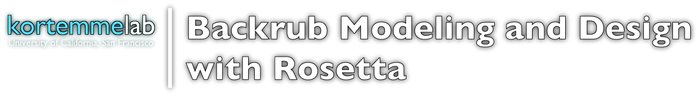
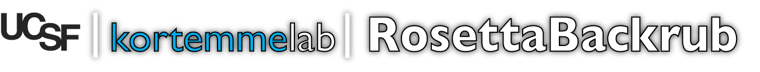
header changes, text changed
git-svn-id: file:///kortemmelab/shared/commonSVN/rosettaweb@48 fc5780ad-6544-46e6-b60b-86c75d3988a5

diff --git a/backrub/jscripts.js b/backrub/jscripts.js
@@ -8,7 +8,7 @@ function startup(query) {
           Nifty("ul#about li","big fixed-height");
           Nifty("div#box","big transparent fixed-height");
       }
-      if (query == "index" || query = 'login') {
+      if (query == "index" || query == "login") {
           Nifty("div#login_box","big transparent fixed-height");
       }
       //updateCellSize2();

diff --git a/backrub/frontend/rosettahtml.py b/backrub/frontend/rosettahtml.py
@@ -33,27 +33,31 @@ class RosettaHTML:
                         #'Interface Alanine Scanning' : 'http://%s/alascan/' % self.server_url,
                         #'more server soon' : 'http://kortemmelab.ucsf.edu/' }
                         # THIS gets to complicated
+        tooltip_parameter = "offsetx=[-90] offsety=[20] singleclickstop=[on] cssbody=[tooltip] cssheader=[tth] delay=[250]"
         self.tooltips = { 
-                        "tt_JobName":       "header=[Name for your job] body=[Enter a name that helps you identifying your job later.] offsetx=[-90] offsety=[20] singleclickstop=[on] cssbody=[tooltip] cssheader=[tth] delay=[500]",
-                        "tt_Structure":     "header=[Structure File] body=[Enter the path to a protein structure file in PDB format. <br>] offsetx=[-90] offsety=[20] singleclickstop=[on] cssbody=[tooltip] cssheader=[tth] delay=[500]",
-                        "tt_StructureURL":  "header=[URL to Structure File] body=[Enter the path to a protein structure file in PDB format. <br>] offsetx=[-90] offsety=[20] singleclickstop=[on] cssbody=[tooltip] cssheader=[tth] delay=[500]",
-                        "tt_RVersion":      "header=[Rosetta Version] body=[Choose the version of Rosetta, either Rosetta 2 (\'classic\') or the new Rosetta 3 (\'mini\'). Some applications only work with one version.] offsetx=[-90] offsety=[20] singleclickstop=[on] cssbody=[tooltip] cssheader=[tth] delay=[500]",
-                        "tt_NStruct":       "header=[Number of Structures] body=[Number of generated structures or size of ensemble.] offsetx=[-90] offsety=[20] singleclickstop=[on] cssbody=[tooltip] cssheader=[tth] delay=[500]",
-                        "tt_ROutput":       "header=[Rosetta output] body=[If checked, the raw output of the Rosetta run is stored. Does not apply to all applications.] offsetx=[-90] offsety=[20] singleclickstop=[on] cssbody=[tooltip] cssheader=[tth] delay=[500]",
-                        "tt_SelApp":        "header=[Select Application] body=[Click to choose one of the applications. Each application will give you a short explanation and a set of parameters that can be adjusted.] offsetx=[-90] offsety=[20] singleclickstop=[on] cssbody=[tooltip] cssheader=[tth] delay=[500]",
-                        "tt_ChainId":       "header=[Chain ID] body=[The chain in which the residue is located.] offsetx=[-90] offsety=[20] singleclickstop=[on] cssbody=[tooltip] cssheader=[tth] delay=[500]",
-                        "tt_ResId":         "header=[Residue ID] body=[The position (residue ID according to the PDB file) that is going to be mutated.] offsetx=[-90] offsety=[20] singleclickstop=[on] cssbody=[tooltip] cssheader=[tth] delay=[500]",
-                        "tt_NewAA":         "header=[New Amino Acid] body=[The Amino Acid to which the position is going to be mutated.] offsetx=[-90] offsety=[20] singleclickstop=[on] cssbody=[tooltip] cssheader=[tth] delay=[500]",
-                        "tt_Radius":        "header=[Radius] body=[This radius determines the area around the mutation that is subject to backrub. For detailed information see the referenced paper. ] offsetx=[-90] offsety=[20] singleclickstop=[on] cssbody=[tooltip] cssheader=[tth] delay=[500]",
-                        "tt_Temp":          "header=[Temperature] body=[at which backrub is carried out.] offsetx=[-90] offsety=[20] singleclickstop=[on] cssbody=[tooltip] cssheader=[tth] delay=[500]",
-                        "tt_NSeq":          "header=[Number of Sequences] body=[The number of designed sequences for each ensemble structure.] offsetx=[-90] offsety=[20] singleclickstop=[on] cssbody=[tooltip] cssheader=[tth] delay=[500]",
-                        "tt_SegLength":     "header=[Maximal segment length for backrub] body=[Limit the length of the segment to which the bachrub move is applied to.] offsetx=[-90] offsety=[20] singleclickstop=[on] cssbody=[tooltip] cssheader=[tth] delay=[500]",
-                        "tt_error":         "header=[Rosetta Error</b></font><br>Rosetta (classic and mini) fail for some PDB files that have inconsistent residue numbering or miss residues. If an error occures for your structure please check the correctness of the PDB file.] offsetx=[-90] offsety=[20] singleclickstop=[on] cssbody=[tooltip] cssheader=[tth] delay=[500]",
-                        "tt_seqtol_chains": "header=[Chain] body=[The two chains in the PDB file that form an interface. Chain 2 will be mutated to find an energetically more stable sequence.] offsetx=[-90] offsety=[20] singleclickstop=[on] cssbody=[tooltip] cssheader=[tth] delay=[500]",
-                        "tt_seqtol_list":   "header=[List] body=[List of residue-IDs of <b>Chain 2</b> that are subject to mutations. Enter residue-IDs seperated by a space.] offsetx=[-90] offsety=[20] singleclickstop=[on] cssbody=[tooltip] cssheader=[tth] delay=[500]",
-                        "tt_seqtol_radius": "header=[Radius] body=[Defines the size of the interface. A residue is considered to be part of the interface if at least one of its atoms is within a sphere of radius r from any atom of the other chain.] offsetx=[-90] offsety=[20] singleclickstop=[on] cssbody=[tooltip] cssheader=[tth] delay=[500]",
-                        "tt_seqtol_weights":"header=[Weights] body=[Describes how much the algorithm emphazises the energetic terms of this entity. The default of 1,1,2 multiplies the energetic terms of residues of the interface by 2, while the energies of partner 1 and partner 2 are weighted with 1, respectively.] offsetx=[-90] offsety=[20] singleclickstop=[on] cssbody=[tooltip] cssheader=[tth] delay=[500]",
-                        "tt_seqtol_design": "header=[Residues for design] body=[Rosetta is going to substitute these residues in order to find energetically stable sequences.] offsetx=[-90] offsety=[20] singleclickstop=[on] cssbody=[tooltip] cssheader=[tth] delay=[500]",
+                        "tt_empty":         "header=[] body=[] %s" % tooltip_parameter,
+                        "tt_general":       "header=[General Settings] body=[These settings are common for all applications.] %s" % tooltip_parameter,
+                        "tt_specific":      "header=[Application Specific Settings] body=[These settings are dependent on the applications. If you are not sure use the standard values.] %s" % tooltip_parameter,
+                        "tt_JobName":       "header=[Name for your job] body=[Enter a name that helps you identifying your job later.] %s" % tooltip_parameter,
+                        "tt_Structure":     "header=[Structure File] body=[Enter the path to a protein structure file in PDB format. For NMR structures only the first model in teh file is considered.] %s" % tooltip_parameter,
+                        "tt_StructureURL":  "header=[URL to Structure File] body=[Enter the path to a protein structure file in PDB format. For NMR structures only the first model in teh file is considered.] %s" % tooltip_parameter,
+                        "tt_RVersion":      "header=[Rosetta Version] body=[Choose the version of Rosetta, either Rosetta 2 (\'classic\') or the new Rosetta 3 (\'mini\'). Some applications only work with one version.] %s" % tooltip_parameter,
+                        "tt_NStruct":       "header=[Number of Structures] body=[Number of generated structures or size of ensemble.] %s" % tooltip_parameter,
+                        "tt_ROutput":       "header=[Rosetta output] body=[If checked, the raw output of the Rosetta run is stored. Does not apply to all applications.] %s" % tooltip_parameter,
+                        "tt_SelApp":        "header=[Select Application] body=[Click to choose one of the applications. Each application will give you a short explanation and a set of parameters that can be adjusted.] %s" % tooltip_parameter,
+                        "tt_ChainId":       "header=[Chain ID] body=[The chain in which the residue is located.] %s" % tooltip_parameter,
+                        "tt_ResId":         "header=[Residue ID] body=[The position (residue ID according to the PDB file) that is going to be mutated.] %s" % tooltip_parameter,
+                        "tt_NewAA":         "header=[New Amino Acid] body=[The Amino Acid to which the position is going to be mutated.] %s" % tooltip_parameter,
+                        "tt_Radius":        "header=[Radius] body=[This radius determines the area around the mutation that is subject to backrub. For detailed information see the referenced paper.] %s" % tooltip_parameter,
+                        "tt_Temp":          "header=[Temperature] body=[at which backrub is carried out.] %s" % tooltip_parameter,
+                        "tt_NSeq":          "header=[Number of Sequences] body=[The number of designed sequences for each ensemble structure.] %s" % tooltip_parameter,
+                        "tt_SegLength":     "header=[Maximal segment length for backrub] body=[Limit the length of the segment to which the bachrub move is applied to.] %s" % tooltip_parameter,
+                        "tt_error":         "header=[Rosetta Error</b></font><br>Rosetta (classic and mini) fail for some PDB files that have inconsistent residue numbering or miss residues. If an error occures for your structure please check the correctness of the PDB file.] %s" % tooltip_parameter,
+                        "tt_seqtol_partner":"header=[Partner] body=[The two chains in the PDB file that form an interface.] %s" % tooltip_parameter,
+                        "tt_seqtol_list":   "header=[List] body=[List of residue-IDs of <b>Chain 2</b> that are subject to mutations. Enter residue-IDs seperated by a space.] %s" % tooltip_parameter,
+                        "tt_seqtol_radius": "header=[Radius] body=[Defines the size of the interface. A residue is considered to be part of the interface if at least one of its atoms is within a sphere of radius r from any atom of the other chain.] %s" % tooltip_parameter,
+                        "tt_seqtol_weights":"header=[Weights] body=[Describes how much the algorithm emphazises the energetic terms of this entity. The default of 1,1,2 emphasizes the energetic contributions of the interface. The interface is weighted with 2, while the energies of partner 1 and partner 2 are weighted with 1, respectively.] %s" % tooltip_parameter,
+                        "tt_seqtol_design": "header=[Residues for design] body=[Rosetta is going to substitute these residues in order to find energetically stable sequences.] %s" % tooltip_parameter,
                         }
         
         
@@ -183,7 +187,7 @@ class RosettaHTML:
     def _showLegalInfo(self):
         html = """<td style="border:1px solid black; padding:10px" bgcolor="#FFFFE0">
                     <p style="text-align:left; font-size: 10pt" >
-                      For questions, please contact <A href="mailto:%s" style="font-size: 10pt">%s</A>
+                      For questions, please read our <A href="../wiki/">documentation</A> or contact <A href="mailto:%s" style="font-size: 10pt">%s</A>
                     </p>
                   </td>""" % ( self.contact_email, self.contact_name )
         return html
@@ -201,21 +205,18 @@ class RosettaHTML:
         html = """<td align=center style="border-top:1px solid gray; ">
                  <table width="720" style="border-width:0pt">
                     <tr>
-                    <td align="center"><img src="../images/ucsf_only_tiny.png" width="65%%" height="65%%" alt="UCSF" border=0></td>
-                    <td align="left" width="520">
-                    "RosettaBackrub" is available for NON-COMMERCIAL USE ONLY at this time.<br>
-                    <font color=#666688><b>[</b></font>
-                    <A href="%s?query=terms_of_service" class="nav">Terms of Service</A>
-                    <font color=#666688><b>]</b></font><br>
-                    <font style="font-size: 9pt">Copyright &copy; 2009 University of California San Francisco, <A href="mailto:kortemme@cgl.ucsf.edu" style="font-size: 9pt">Tanja Kortemme</a>, <A href="mailto:lauck@cgl.ucsf.edu" style="font-size: 9pt">Florian Lauck</A></font>
+                    <td align="left">
+                    "RosettaBackrub" is available for NON-COMMERCIAL USE ONLY at this time. 
+                    [&nbsp;<A class="nav" href="/backrub/wiki/TermsOfService" >Terms of Service</A>&nbsp;]<br>
+                    <font style="font-size: 9pt">Copyright &copy; 2009 Tanja Kortemme, Florian Lauck and the Regents of the University of California San Francisco</font>
                     </td>
                     <td align="center">
                     %s
                     </td>
                     </tr>
-                 </table></td>""" % ( self.script_filename , SSL)
+                 </table></td>""" % (SSL)
         return html
-
+# <td align="center"><img src="../images/ucsf_only_tiny.png" width="65%%" height="65%%" alt="UCSF" border=0></td>
 
 ##############################################
 # The following functions are accessed from  #
@@ -243,8 +244,6 @@ class RosettaHTML:
         html = '''<td align="center">
     <H1 class="title">Submit a new job</H1>
     <br>
-    Please enter the required information and upload a structure. For help move your mouse to the parameter.
-    <br><br>
 <!-- Start Submit Form -->
     <FORM NAME="submitform" method="POST" onsubmit="return ValidateForm();" enctype="multipart/form-data">
 
@@ -311,34 +310,40 @@ class RosettaHTML:
 
           <!-- end pictures -->
           <!-- description -->
-            <p id="text0" style="text-align:justify;"> 
-              Click left to choose one of the applications. Each application will give you a short explanation and a set of parameters that can be adjusted.
+            <p id="text0" style="text-align:justify;">
+              Choose one of the applications on the left. Each application will give you a short explanation and a set of parameters that can be adjusted.<br><br>
+              For a brief explanation hover your mouse over the parameter.
             </p>
           
             <div id="text1" style="display:none; opacity:0.0; text-align:justify;"> 
-                This function utilizes the backrub protocol implemented in ROSETTA.<br>
-                There are two options:
-                <ul style="text-align:left;">
-                    <li>One Mutation: A single residue will be substituted. (see reference below)</li>
-                    <li>Multiple Mutations: Up to 30 residues can be mutated. (not published)</li>
-                    <!-- li>Upload List: Upload a list with single residue mutations.</li -->
-                </ul>
+                This function utilizes the backrub protocol implemented in Rosetta and applies it to the neighborhood 
+                of a mutated residue to account for the conformational changes in this region. 
+                There are two options.
+                <dl style="text-align:left;">
+                    <dt><b>One Mutation</b></dt><dd>A single residue will be substituted and the neigboring residue in a radius of 6&#197; will be repacked. This value was empirically determined (see reference).</dd>
+                    <dt><b>Multiple Mutations</b></dt><dd>Up to 30 residues can be mutated and their neighborhoods repacked. This method has not been benchmarked yet.</dd>
+                    <!-- dt>Upload List</dt><dd>Upload a list with single residue mutations.</dd -->
+                </dl>
             </div>
 
             <div id="text2" style="display:none; opacity:0.0; text-align:justify;"> 
-                This function utilizes backrub and design protocols implemented in ROSETTA.<br>
-                There are two options:
-                <ul style="text-align:left;">
-                    <li>Generate Backrub Ensemble: The backrub protocol is applied to the whole structure without changing any residues.</li>
-                    <li>Backrub Ensemble Design: This method creates an ensemble of structures that model the flexibility in solution. (see reference below)</li>
-                </ul>
+                This function utilizes backrub and design protocols implemented in ROSETTA. 
+                There are two options.
+                <dl style="text-align:left;">
+                    <dt><b>Generate Backrub Ensemble</b></dt><dd>Backrub is applied to the input structure in order to model backbone flexibility.</dd>
+                    <dt><b>Backrub Ensemble Design</b></dt>
+                      <dd>This method first creates an ensemble of structures that resembles the flexibility in solution. 
+                          These ensembles are similar to the ensembles detected by the NMR method.<br> 
+                          In a second step the generated protein structures are used to design an ensemble that has similar properties as the natural occuring protein family.
+                          The output is a sequence profile of this family of structures.</dd>
+                </dl>
             </div>
             
             <div id="text3" style="display:none; opacity:0.0; text-align:justify;"> 
-                This function utilizes backrub and design protocols implemented in ROSETTA.<br>
-                First, the backrub algorithm is applied to the uploaded complex and an ensemble is generated. 
-                Then, the structures of this ensemble are subject to the design protocol. 
-                This generates and scores sequences by utilizing a genetic algorithm.
+                This function utilizes backrub and design protocols implemented in Rosetta.<br><br>
+                First, the backrub algorithm is applied to the uploaded complex in order to generate an ensemble.
+                Then, for each of the resulting structure the given residues are mutated by an genetic algorithm. 
+                All generated sequences are ranked by their score and used to build a sequence profile.
             </div>
           <!-- end description -->
           
@@ -355,17 +360,18 @@ class RosettaHTML:
                 <TD align=left style="padding-left:5pt; padding-top:5pt;"><INPUT TYPE="text" maxlength=40 SIZE=31 NAME="JobName" VALUE="%(jobname)s"></TD>
               </TR>
               <TR>
-                <TD align=right title="%(tt_Structure)s"> Structure </TD>
+                <TD align=right title="%(tt_Structure)s">Upload Structure </TD>
                 <TD align=left style="padding-left:5pt; padding-top:5pt;" > <INPUT TYPE="file" NAME="PDBComplex" size="20"></TD>
               </TR>
+              <TR><TD align="center" colspan="2" style="padding-bottom:0pt; padding-top:0pt;">or</TD></TR>
               <TR>
-                <TD align=right title="%(tt_StructureURL)s"> URL to structure file </TD>
+                <TD align=right title="%(tt_StructureURL)s"> Enter URL to structure file </TD>
                 <TD align=left style="padding-left:5pt; padding-top:5pt;" > <INPUT TYPE="text" NAME="PDBComplexURL" size="31">
               </TD>
               </TR>
               <TR><TD colspan=2><br></TD></TR>
               <TR>
-                <TD align="center" colspan=2 style="border-bottom:1pt dashed black">General Settings</TD>
+                <TD align="center" colspan=2 style="border-bottom:1pt dashed black" title="%(tt_general)s">General Settings</TD>
               </TR>
               <TR>
                 <TD align=right title="%(tt_RVersion)s">Rosetta Version </TD>
@@ -384,13 +390,12 @@ class RosettaHTML:
               </TR -->
               <TR><TD align=left><br></TD></TR>
               <TR>
-                <TD align="center" colspan=2 style="border-bottom:1pt dashed black">Application Specific Settings</TD>
+                <TD align="center" colspan=2 style="border-bottom:1pt dashed black" title="%(tt_specific)s">Application Specific Settings</TD>
               </TR>
             </TABLE>
             
             <!-- Backrub - Point Mutation -->
             <p id="parameter1_1" style="display:none; opacity:0.0; text-align:justify;">
-            Backrub is applied to residues that have at least one atom within a radius of 6.0 &#197; near the mutation. [ <a href="http://www.sciencedirect.com/science/article/B6WK7-4SHVT2K-7/2/7bb4ba6dcb946d7e39662232433bbb09">Smith and Kortemme, 2008</a> ]<br>
                 <table align=center>
                 <tr>
                     <td align="right" title="%(tt_ChainId)s">Chain ID </td><td><input type="text" name="PM_chain"  maxlength=1 SIZE=5 VALUE=""></td>
@@ -410,7 +415,6 @@ class RosettaHTML:
             
             <!-- Backrub - Multiple Point Mutation -->
             <p id="parameter1_2" style="display:none; opacity:0.0; text-align:justify;">
-            Choose up to 30 residues for mutations. Backrub is applied to neighboring residues in a given radius. <br>
                 <table bgcolor="#EEEEEE" align="center">
                 <tr bgcolor="#828282" style="color:white;">
                     <td align="center">#</td>
@@ -463,12 +467,10 @@ class RosettaHTML:
             </p>
             
             <!-- Ensemble - simple -->
-            <p id="parameter2_1" style="display:none; opacity:0.0; text-align:center;"><b>Apply backrub to all residues.</b><br><br>no options
-            </p>
+            <p id="parameter2_1" style="display:none; opacity:0.0; text-align:center;">no options</p>
             
             <!-- Ensemble - design -->
             <p id="parameter2_2" style="display:none; opacity:0.0; text-align:center;">
-                <b>Create a backrub ensemble.</b><br> [ <a href="http://www.pubmedcentral.nih.gov/articlerender.fcgi?artid=2682763">Friedland et al. 2009</a> ]<br><br>
                 <table align="center">
                 <tr>
                     <td title="%(tt_Temp)s">Temperature [kT]</td><td><input type="text" name="ENS_temperature" maxlength=3 SIZE=5 VALUE="0.3"></td>
@@ -486,11 +488,11 @@ class RosettaHTML:
             <p id="parameter3_1" style="display:none; opacity:0.0; text-align:center;">
             <table align="center">
               <tr>
-                  <td align="right" title="%(tt_seqtol_chains)s">Partner 1:</td>
+                  <td align="right" title="%(tt_seqtol_partner)s">Partner 1:</td>
                   <td>Chain <input type="text" name="seqtol_chain1" maxlength=1 SIZE=2 VALUE=""></td>
               </tr>
               <tr>
-                  <td align="right" title="%(tt_seqtol_chains)s">Partner 2:</td>
+                  <td align="right" title="%(tt_seqtol_partner)s">Partner 2:</td>
                   <td>Chain <input type="text" name="seqtol_chain2" maxlength=1 SIZE=2 VALUE="">
                   </td>
               </tr>
@@ -500,11 +502,11 @@ class RosettaHTML:
                   </td>
               </tr -->
               <tr>
-                  <td align="right" title"%(tt_seqtol_radius)s">Repacking of neighboring residues.</td>
+                  <td align="right" title="%(tt_Radius)s">Area for repacking.</td>
                   <td>Radius<input type="text" name="seqtol_radius" maxlength=5 SIZE=4 VALUE="4.0"> &#197;</td>
               </tr>
               <tr>
-                  <td align="right" title"%(tt_seqtol_weights)s">Weight for Partner</td>
+                  <td align="right" title="%(tt_seqtol_weights)s">Weight for Partner</td>
                   <td>
                     <table >
                       <tr >
@@ -745,7 +747,7 @@ class RosettaHTML:
         for line in job_list:
             task = ''
             if line[9] == '0' or line[9] == 'no_mutation':
-                task = "Model Flexibility"
+                task = "Backrub Ensemble"
             elif line[9] == '1' or line[9] == 'point_mutation':
                 task = "Point Mutation"
             elif line[9] == '3' or line[9] == 'multiple_mutation':
@@ -753,9 +755,9 @@ class RosettaHTML:
             elif line[9] == '2' or line[9] == 'upload_mutation':
                 task = "Custom Mutation"
             elif line[9] == '4' or line[9] == 'ensemble':
-                task = "Backrub ensemble"
+                task = "Backrub Ensemble Design"
             elif line[9] == 'sequence_tolerance':
-                task = "Sequence Tolerance"
+                task = "Sequence Plasticity"
           
             html += """<tr align=center bgcolor="#EEEEEE" onmouseover="this.style.background='#447DAE'; this.style.color='#FFFFFF'" onmouseout="this.style.background='#EEEEEE'; this.style.color='#000000'" onclick="window.location.href='%s?query=jobinfo&jobnumber=%s'">""" % ( self.script_filename, line[1] )
             # write ID
@@ -1171,7 +1173,7 @@ class RosettaHTML:
             html += self._showDownloadLinks(status, parameter['KeepOutput'], parameter['cryptID'], parameter['ID'])
             
             if parameter['task'] == '0' or parameter['task'] == 'no_mutation':
-                task = "Model Flexibility"
+                task = "Backrub Ensemble"
                 html += self._showNoMutation( status, parameter['PDBComplexFile'], parameter['EnsembleSize'], parameter['cryptID'] )            
                 
             elif parameter['task'] == '1' or parameter['task'] == 'point_mutation':
@@ -1189,12 +1191,12 @@ class RosettaHTML:
                 html += self._showComplexMutation( status, parameter['cryptID'], parameter['PDBComplexFile'], parameter['EnsembleSize'], parameter['Mutations'])
                 
             elif parameter['task'] == '4' or parameter['task'] == 'ensemble':
-                task = "Backrub ensemble"
+                task = "Backrub Ensemble Design"
                 html += self._showEnsemble( status, parameter['cryptID'], parameter['PDBComplexFile'], parameter['EnsembleSize'], parameter['ENS_temperature'], 
                                             parameter['ENS_num_designs_per_struct'], parameter['ENS_segment_length'] )
                                             
             elif parameter['task'] == 'sequence_tolerance':
-                task = "Sequence Tolerance"
+                task = "Sequence Plasticity Prediciton"
                 seqtol_parameter = pickle.loads(parameter['seqtol_parameter'])
                 html += self._showSequenceTolerance( status, parameter['cryptID'], parameter['PDBComplexFile'], parameter['EnsembleSize'], 
                                                      seqtol_parameter['seqtol_chain1'], seqtol_parameter['seqtol_chain2'], 
@@ -1277,7 +1279,7 @@ class RosettaHTML:
         
         message_html = ''
         if message != '':
-            message_html = '<P style="text-align:center; color:red;">%s</P>' % ( message )
+            message_html = '<tr><td colspan="3" align="right"><P style="text-align:center; color:red;">%s</P></td></tr>' % ( message )
         disabled = ''
         if login_disabled:
             disabled = 'disabled'
@@ -1285,20 +1287,20 @@ class RosettaHTML:
         html = """<td align="center">
                   <H1 class="title">Welcome to RosettaBackrub</A> </H1> 
                     <P>
-                      This is the structure prediction web server of the Kortemme Lab. This server utilizes the backrub method implemented in 
-                      <a href="%s?query=doc#Rosetta">Rosetta</a>
-                      for protein design and applies it to a structure uploaded by the user. For an explanation of how the server works see the
-                      <a href="%s?query=doc#instructions">instructions</a>. 
+                      This is the structure prediction web server of the Kortemme Lab. This server utilizes the backrub method for flexible protein backbone modeling implemented in 
+                      <a href="/backrub/wiki/Rosetta">Rosetta</a>. 
+                      This server allows the user to upload a protein structure and choose an algorithm that is applied to this structure. 
+                      For a tutorial on how to submit a job see the <a href="/backrub/wiki/">documentation</a>. 
                     </P>
 
                   <div id="login_box">
                     <form name="loginform" method="post" action="%s">
                     <P style="text-align:justify;">
-                    %s
                     You are not required to register for this service, but you can choose to do so. 
                     If you want to proceed without registering click on \"Guest access\", otherwise enter your login and password.
                     <A href="%s?query=register">Click here</A>, if you wish to register.</P>
                     <table border=0 cellpadding=5 cellspacing=0>
+                    %s
                     <tr><td valign="middle" align="center" style="color:red;">
                           <input type="button" name="guest_access" value="Guest Access" onClick="document.loginform.myUserName.value='guest';  document.loginform.myPassword.value=''; document.loginform.submit(); return true;"><br><br>
                           No password required.
@@ -1318,15 +1320,16 @@ class RosettaHTML:
                     Forgot your password? <A href="%s?query=oops">Click here</A> .
                     <br>
                     </div>
-                   <td>""" % ( self.script_filename, self.script_filename, self.script_filename, message_html, self.script_filename, username, disabled, disabled, self.script_filename )
+                   <td>""" % ( self.script_filename, self.script_filename, message_html, username, disabled, disabled, self.script_filename )
 
         return html
 
     def loggedIn(self, username):
         self.username = username
         html = """ <td align="center">You have successfully logged in as %s. <br> <br> \n 
-                   Proceed to <A href="%s?query=submit">Simulation Form</A>  or \n
-                   <A href="%s?query=queue">Queue</A> . <br><br> </td>\n""" % ( username, self.script_filename, self.script_filename )
+                   From here you can proceed to the <A href="%s?query=submit">submission page</A> to <A href="%s?query=submit">submit a new job</A> <br>
+                   or navigate to the <A href="%s?query=queue">queue</A> to check for submitted, running or finished jobs. <br><br> </td>
+                   """ % ( username, self.script_filename, self.script_filename, self.script_filename )
         return html
 
 

diff --git a/backrub/frontend/rosettaweb.py b/backrub/frontend/rosettaweb.py
@@ -214,11 +214,11 @@ def ws():
   rosettaHTML = RosettaHTML(ROSETTAWEB_server_name, 'RosettaBackrub', ROSETTAWEB_server_script, ROSETTAWEB_download_dir, username=username, comment=comment, warning=warning, contact_email='kortemme@cgl.ucsf.edu' , contact_name='Tanja Kortemme')
 
   # session is now active, execute function
-  if query_type == "index":
-    html_content = rosettaHTML.index()
-    title = 'Home'
+  # if query_type == "index":
+  #   html_content = rosettaHTML.index()
+  #   title = 'Home'
 
-  elif query_type == "login":
+  if query_type == "login" or query_type == "index":
     login_return = login(form, my_session, t)
     if login_return == True:
       username = form["myUserName"].value
@@ -229,7 +229,7 @@ def ws():
       html_content = rosettaHTML.login( message='You\'re already logged in.', login_disabled=True )
     else:
       html_content = rosettaHTML.login() 
-    title = 'Login'
+    title = 'Home'
 
   elif query_type  == "loggedin":
     html_content = rosettaHTML.loggedIn(username) 
